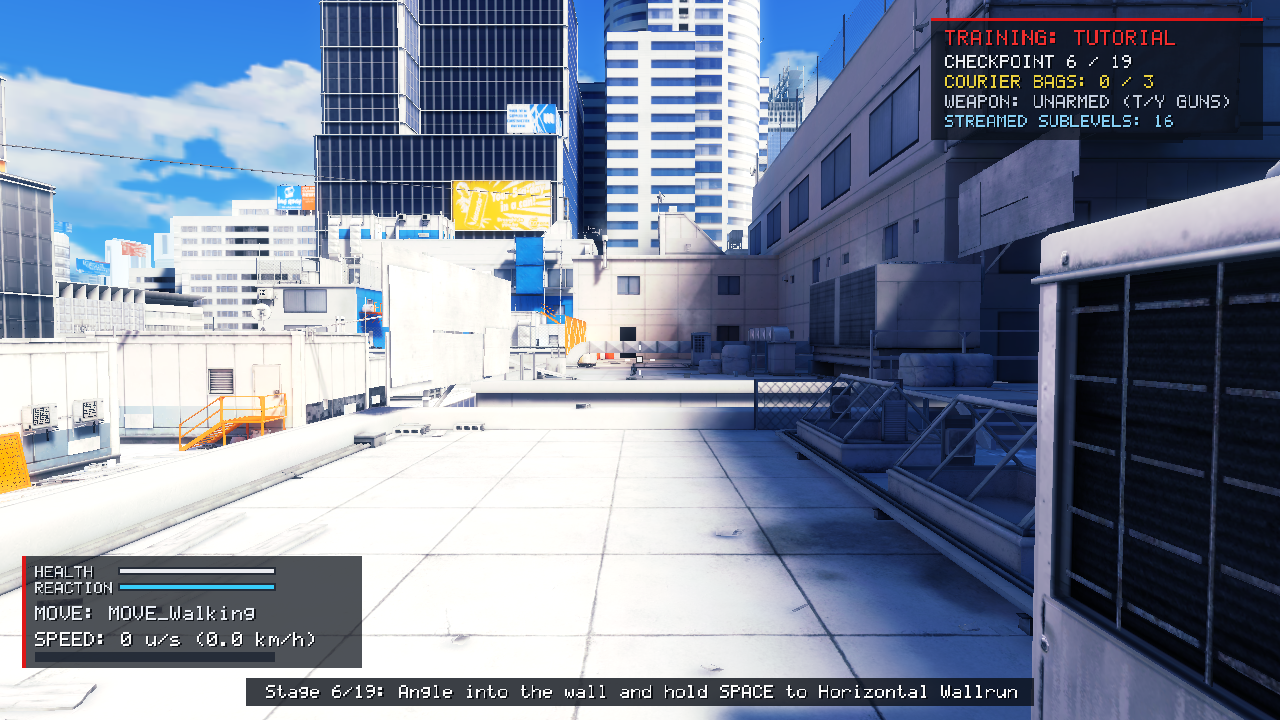
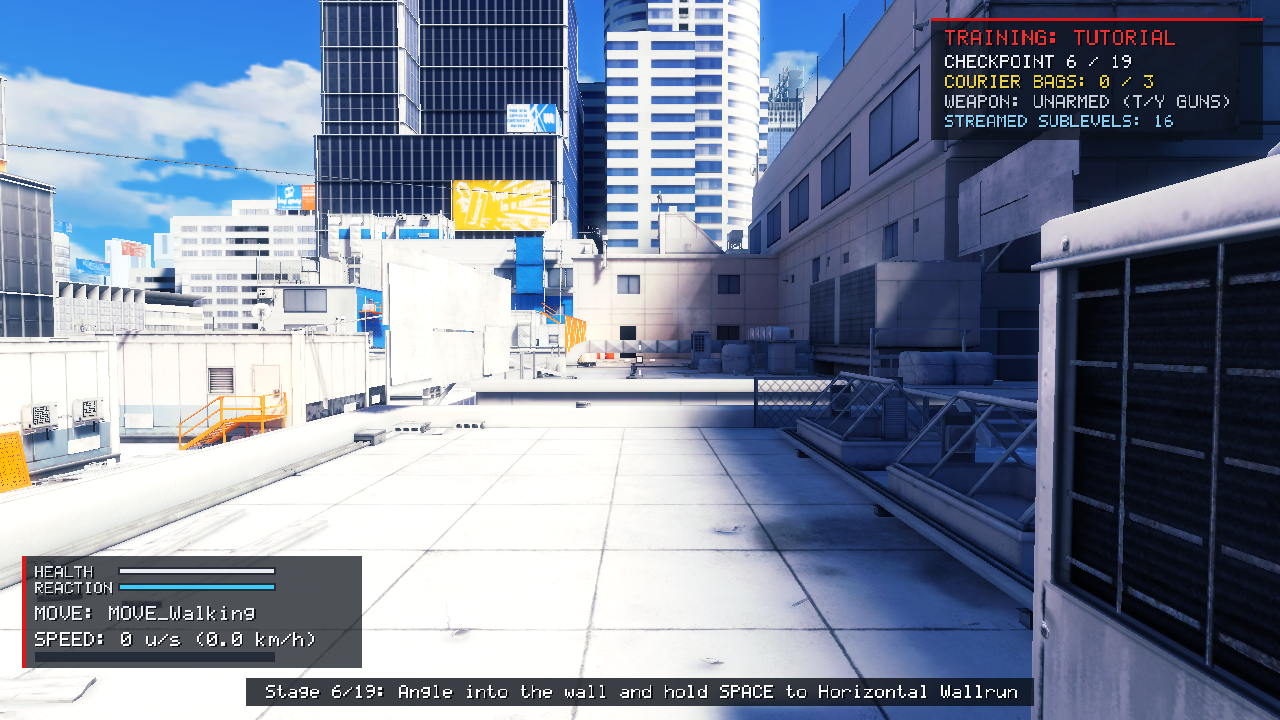
Controller: the capsule hovers over the floor, as retail's does
The last change drew the eye and the first-person mesh 3.15 uu higher on a
floor and left the physics where it was: the feet stood on the floor, 3.15 uu
under retail's capsule bottom, with jump reach and every height measured from
them. Now the hover is the controller's.

- check_ground() gives the place the feet rest at, kPawnFloorHover (3.15 uu)
  over where the capsule meets the floor. Standing, landing and stepping all
  go through it; hangs, bars, cables and pipes keep their own places. The
  drawn hover is gone.
- A leaf she has just barged open does not block her while it swings: with
  the hover she reaches it sooner, and the box test against its slow hinge
  side stopped her dead in the doorway.
- tools/retail: a recording's capsule centre is 90 over the port's feet (was
  93), and an anchor is no longer lifted to settle.
- The oracle expects her at her hover on a roof, after a landing, on a lift's
  floor and at the top of a pull-up.

Checked on Windows: --verify-all passes (screenshots regenerated); the
hand-over still matches retail's traces and her feet rest at retail's capsule
bottom to the hundredth; a retail recording replays as before (11 of 27
windows) with feet and capsule bottom at the same height. macOS: compiled on
macos-15; not run.

diff --git a/src/physics/parkour_controller.cpp b/src/physics/parkour_controller.cpp
@@ -1,6 +1,7 @@
 #include "parkour_controller.hpp"
 #include "../game/impact_effects.hpp"
 #include <cmath>
+#include <cstdlib>
 #include <algorithm>
 #include <iostream>
 #include <iterator>
@@ -41,14 +42,10 @@ constexpr float kEyeHeightSlide = 70.0f;
 // UE3 APawn walking constants.
 constexpr float kMaxStepHeight = 35.0f;   // Pawn.MaxStepHeight
 constexpr float kMaxFloorDist = 2.4f;     // MAXFLOORDIST
-// Retail's capsule does not stand on the floor. Let go at the end of each level intro, its centre
-// comes to rest 93.15 above the floor this controller stands on (New Eden, The Shard, The Boat), or
-// stays where it is when it is between 92.9 and 93.4 (Heat): physWalking's band of 1.9 to 2.4 over
-// the floor (MINFLOORDIST, MAXFLOORDIST), moved to its middle, and one unit more. These feet are on
-// the floor, so retail's eye and first-person mesh are that much higher than this pawn's place
-// gives them: the hover is added to what is drawn, not to the physics.
-constexpr float kFloorHover = 3.15f;
-constexpr float kHoverRate = 79.0f;       // uu/s: how fast what is drawn takes a change of it
+// The capsule's hover over a floor (kPawnFloorHover, parkour_controller.hpp): check_ground() gives
+// the place the feet rest at, not the place the capsule would touch.
+constexpr float kFloorHover = kPawnFloorHover;
+constexpr float kLiftRate = 79.0f;        // uu/s: how fast a hand-over's lift is let down
 // When the pawn's own animation comes back after a cutscene, retail's eye starts 6.5 uu over its
 // standing place and comes down in five frames at 79 uu/s, with the view's pitch (measured the same
 // in nine level intros): the tree blending in from its reference pose.
@@ -588,10 +585,8 @@ void ParkourController::reset(const Vec3& spawn_pos, float spawn_yaw) {
     m_telemetry.snatch_from_back = false;
     m_cam_mesh_offset = Vec3(0.0f, 0.0f, 0.0f);
     m_telemetry.camera_mesh_offset = m_cam_mesh_offset;
-    // She stands: the capsule hovers. And the body faces where she does from the first frame.
-    m_hover_z = kFloorHover;
+    // The body faces where she does from the first frame.
     m_handover_lift = 0.0f;
-    m_telemetry.camera_mesh_offset.z = m_hover_z;
     m_telemetry.mesh_smooth_z = 0.0f;
     m_telemetry.body_yaw_deg = spawn_yaw;
     m_mesh_smooth_z = 0.0f;
@@ -778,16 +773,13 @@ void ParkourController::anchor(const Vec3& feet, const Vec3& velocity, float yaw
     if (!grounded) {
         leave_ground(state.jump ? EMovement::MOVE_Jump : EMovement::MOVE_Falling);
         if (state.jump == 1) m_telemetry.move_state = EMovement::MOVE_Falling;
-        // In the air the anchor is the capsule's own place: nothing to add until a floor carries her.
-        m_hover_z = 0.0f;
-        m_telemetry.camera_mesh_offset.z = 0.0f;
     }
     if (state.jump) m_pre_jump_momentum = state.pre_jump_momentum;
 }
 
 void ParkourController::hand_over(const Vec3& root_end, float yaw, const LevelScene& scene) {
     reset(root_end + Vec3(0.0f, 0.0f, 2.0f), yaw);
-    // Onto the floor under her now, not by a fall in the first frames of play.
+    // Onto her hover over the floor under her now, not by a fall in the first frames of play.
     FloorHit floor;
     if (check_ground(scene, 2.0f + kMaxStepHeight, kPawnHeight, floor)) {
         m_telemetry.position.z = floor.z;
@@ -795,7 +787,7 @@ void ParkourController::hand_over(const Vec3& root_end, float yaw, const LevelSc
     }
     m_smooth_last_z = m_telemetry.position.z;
     m_handover_lift = kHandoverLift;
-    m_telemetry.camera_mesh_offset.z = m_hover_z + m_handover_lift;
+    m_telemetry.camera_mesh_offset.z = m_handover_lift;
 }
 
 void ParkourController::equip_weapon(const std::string& weapon_name) {
@@ -1240,21 +1232,10 @@ void ParkourController::step(const InputFrame& input, float dt, LevelScene& scen
         m_smooth_was_walking = walking;
         m_smooth_was_heave = m_telemetry.move_state == EMovement::MOVE_GrabPullUp;
         m_smooth_last_z = m_telemetry.position.z;
-        // The capsule's hover (kFloorHover): there while a floor carries her and in the air after it,
-        // where this pawn is as far under retail's as it was on the floor; not while she hangs from
-        // something, where her place comes from the ledge, the bar, the cable or the pipe.
-        {
-            const EMovement ms = m_telemetry.move_state;
-            const bool hangs = ms == EMovement::MOVE_Grabbing || ms == EMovement::MOVE_IntoGrab || ms == EMovement::MOVE_GrabTransfer ||
-                               ms == EMovement::MOVE_GrabPullUp || ms == EMovement::MOVE_ZipLine || ms == EMovement::MOVE_Swing ||
-                               ms == EMovement::MOVE_Climb;
-            const float target = hangs ? 0.0f : (m_telemetry.grounded ? kFloorHover : m_hover_z);
-            const float step = kHoverRate * effective_dt;
-            m_hover_z = std::abs(target - m_hover_z) <= step ? target : m_hover_z + (target > m_hover_z ? step : -step);
-            m_handover_lift = std::max(0.0f, m_handover_lift - step);
-        }
+        // A hand-over's lift (kHandoverLift) is let down.
+        m_handover_lift = std::max(0.0f, m_handover_lift - kLiftRate * effective_dt);
         m_telemetry.mesh_smooth_z = m_mesh_smooth_z;
-        m_telemetry.camera_mesh_offset.z = m_mesh_smooth_z + m_hover_z + m_handover_lift;
+        m_telemetry.camera_mesh_offset.z = m_mesh_smooth_z + m_handover_lift;
     }
     // Retail's frames have the pistol in her hand between 0.08 and 0.16 s after the move ends, not
     // on its last frame.
@@ -1942,6 +1923,10 @@ ParkourController::TraceHit ParkourController::sweep_capsule(const Capsule& caps
         for (const auto& part : door.parts) {
             if (!part.collision) continue;
             if (door.state != DoorState::Closed && part.is_blocker_only) continue;
+            // A leaf she has just barged open swings away ahead of her (the open matinee): it does
+            // not stop her in the doorway. A box test against it, a few degrees into its swing,
+            // would: its slow hinge side is still across her way.
+            if (door.state == DoorState::Opening && door.barged && !part.is_blocker_only) continue;
             if (!is_rotated) {
                 consider(part.collision->sweep_box(centre, delta, extent, COLL_BlockNonZeroExtent), Vec3(0.0f, 0.0f, 0.0f));
             } else {
@@ -2018,15 +2003,17 @@ ParkourController::TraceHit ParkourController::trace_ray(const Vec3& start, cons
     return best;
 }
 
+// The floor under her within `probe_depth` of where she would rest on it, and that resting place:
+// kFloorHover over where the capsule meets the floor.
 bool ParkourController::check_ground(const LevelScene& scene, float probe_depth, float height, FloorHit& out) const {
     Capsule cap;
     cap.base = m_telemetry.position + Vec3(0.0f, 0.0f, kFloorProbeLift);
     cap.radius = kPawnRadius;
     cap.height = height;
-    const Vec3 delta(0.0f, 0.0f, -(kFloorProbeLift + probe_depth));
+    const Vec3 delta(0.0f, 0.0f, -(kFloorProbeLift + probe_depth + kFloorHover));
     const TraceHit hit = sweep_capsule(cap, delta, scene);
     if (!hit.hit || hit.normal.z < kWalkableFloorZ) return false;
-    out.z = cap.base.z + delta.z * hit.fraction;
+    out.z = cap.base.z + delta.z * hit.fraction + kFloorHover;
     out.normal = hit.normal;
     out.actor_index = hit.actor_index;
     return true;

diff --git a/src/main.cpp b/src/main.cpp
@@ -768,7 +768,7 @@ static int run_oracle_verification(const std::string& game_root, const std::stri
     const float s1_fov = controller.get_telemetry().fov_deg;
     const float s1_z = controller.get_position().z;
     bool s1_pass = (s1_speed >= 400.0f) && (s1_fov > 90.0f) && controller.is_grounded() &&
-                   std::abs(s1_z - sp00_scene.player_spawn_pos.z) < 1.0f;
+                   std::abs(s1_z - (sp00_scene.player_spawn_pos.z + kPawnFloorHover)) < 1.0f;  // on the roof, at her hover over it
     std::cout << "  -> Stage 1 Result: " << (s1_pass ? "PASS" : "FAIL")
               << " (Speed=" << s1_speed << " u/s, FOV=" << s1_fov << "°, Roof Z=" << s1_z << ")" << std::endl;
 
@@ -856,7 +856,7 @@ static int run_oracle_verification(const std::string& game_root, const std::stri
     controller.step(in_run_jump, kDt, sim_scene);
     step_until(in_run, 180, sim_scene, [&] { return controller.is_grounded(); });
     const Vec3 s3_land = controller.get_position();
-    bool s3_cleared_gap = controller.is_grounded() && s3_land.x < -1150.0f && std::abs(s3_land.z - 4224.0f) < 2.0f;
+    bool s3_cleared_gap = controller.is_grounded() && s3_land.x < -1150.0f && std::abs(s3_land.z - (4224.0f + kPawnFloorHover)) < 2.0f;
     bool s3_pass = s3_wallrun && (s3_max_roll >= 10.0f) && s3_cleared_gap;
     std::cout << "  -> Stage 3 Result: " << (s3_pass ? "PASS" : "FAIL")
               << " (State=" << move_state_name(s3_state)
@@ -1156,7 +1156,7 @@ static int run_oracle_verification(const std::string& game_root, const std::stri
                 }
             }
             cab_top_z = controller.get_position().z;
-            s8_elev_top = (std::abs(cab_top_z - lift_top_z) < 2.0f) &&
+            s8_elev_top = (std::abs(cab_top_z - (lift_top_z + kPawnFloorHover)) < 2.0f) &&
                           (esc_scene.elevators[lift].state == ElevatorState::IdleEnd) &&
                           esc_scene.elevators[lift].streaming_triggered;
 
@@ -1167,7 +1167,7 @@ static int run_oracle_verification(const std::string& game_root, const std::stri
             }
             walkout_pos = controller.get_position();
             s8_walkout = controller.is_grounded() && walkout_pos.x < lift_floor.x - lift_half.x - 30.0f &&
-                         std::abs(walkout_pos.z - lift_top_z) < 2.0f;
+                         std::abs(walkout_pos.z - (lift_top_z + kPawnFloorHover)) < 2.0f;
         }
         s8_pass = s8_elev_top && s8_walkout && real_elev_ok;
         std::cout << "  -> Stage 8 Result: " << (s8_pass ? "PASS" : "FAIL")
@@ -2262,10 +2262,11 @@ static int run_oracle_verification(const std::string& game_root, const std::stri
         const bool s20_heave = pulled && heave_anim == "HangHeaveUp" && heave_samples.size() >= 80;
         // The camera follows retail's to 5 uu, the pawn the root motion to 1.5 uu.
         const bool s20_track = s20_heave && eye_report.str().size() > 0 && std::abs(worst_cap) <= 1.5f && std::abs(worst_eye) <= 5.0f;
-        // The move lasts the animation (OnCustomAnimEnd) and ends on the roof, walking, with no jump of
+        // The move lasts the animation (OnCustomAnimEnd) and ends on the roof (the lip is 182.8 over the
+        // hanging feet, and she hovers over it), walking, with no jump of
         // the camera on the way (the old end shoved her 76 uu forward in one frame).
         const bool s20_end = walked && last_heave_t > kHangHeaveUpLength - kDt - 1e-3f && last_heave_t < kHangHeaveUpLength &&
-                             std::abs(end_rise - 182.8f) <= 1.5f && max_cam_step < 12.0f;
+                             std::abs(end_rise - (182.8f + kPawnFloorHover)) <= 1.5f && max_cam_step < 12.0f;
         s20_pass = esc_ok && grabbed && s20_heave && s20_track && s20_end;
         std::cout << "  -> Stage 20 Result: " << (s20_pass ? "PASS" : "FAIL")
                   << " (Escape_p=" << (esc_ok ? "OK" : "NO") << ", Grab=" << (grabbed ? "OK" : "NO")

diff --git a/src/physics/parkour_controller.hpp b/src/physics/parkour_controller.hpp
@@ -24,6 +24,15 @@ struct LinearCurve {
 // GetWalkAcceleration / CalcVelocity) describe it, with swept collision against the real UE3 level
 // collision (LevelScene::collision + the moving elevator parts), weapons, combat disarm, and AI.
 // =============================================================================
+// Retail's capsule does not stand on the floor. Let go at the end of each level intro, its centre
+// comes to rest 93.15 above the floor its sweep meets (New Eden, The Shard, The Boat), or stays
+// where it is when it is between 92.9 and 93.4 (Heat): physWalking's band of 1.9 to 2.4 over the
+// floor (MINFLOORDIST, MAXFLOORDIST), moved to its middle, and one unit more. With CollisionHeight
+// 90 that puts the capsule's bottom, the controller's feet, 3.15 over the floor that carries
+// her. (The band is not kept: she is always put at its middle.) A recording's capsule centre is
+// 90 over these feet on a floor and off it (tools/retail/trace.py).
+inline constexpr float kPawnFloorHover = 3.15f;
+
 class ParkourController {
 public:
     explicit ParkourController(const MovementConfig& config = MovementConfig());
@@ -32,7 +41,7 @@ public:
     // Reset player position and orientation
     void reset(const Vec3& spawn_pos, float spawn_yaw = 0.0f);
     // A cutscene ends and the player is let go where its animation left the mesh's root (the
-    // stand-in's place, on the floor or near it): she stands on the floor under it, facing `yaw`,
+    // stand-in's place, on the floor or near it): she hovers over the floor under it, facing `yaw`,
     // and the view is let down onto her own standing pose as retail's is (parkour_controller.cpp,
     // kHandoverLift).
     void hand_over(const Vec3& root_end, float yaw, const LevelScene& scene);
@@ -486,7 +495,6 @@ private:
     float m_balance_time = 0.0f;            // since she stepped on to the beam
     float m_balance_sway = 0.0f;            // the lean's own wander, as shown
     float m_mesh_smooth_z = 0.0f;           // TdPawn.SmoothOffset: the mesh held back over a fast change of floor height
-    float m_hover_z = 0.0f;                 // how far over these feet retail's capsule bottom is (kFloorHover on a floor)
     float m_handover_lift = 0.0f;           // what is left of a hand-over's lift (kHandoverLift)
     float m_smooth_last_z = 0.0f;
     bool m_smooth_was_walking = false;

diff --git a/tools/retail/trace.py b/tools/retail/trace.py
@@ -24,16 +24,17 @@ import math
 
 TICK_MS = 16
 # Retail's pawn Location is the capsule centre. CollisionHeight is 90 (a
-# half-height, units.py) and the pawn floats a few uu above the floor: at the
-# escape_p spawn the centre reads 12069.15 over a roof whose top converts to
-# 11976, so 93. The anchor is lifted a little on top and settled onto OUR
-# floor, so a unit either way costs nothing.
-CENTRE_ABOVE_FEET = 93.0
+# half-height, units.py), so the capsule's bottom is 90 under it. The pawn
+# hovers over the floor (at the escape_p spawn the centre reads 12069.15 over
+# a roof whose top converts to 11976: 93.15), and so does the port's since
+# its controller keeps the feet kPawnFloorHover (3.15) over the floor: its
+# feet are the capsule's bottom, on a floor and off it.
+CENTRE_ABOVE_FEET = 90.0
 # ...except on the SHORT capsule: a move with bUseCustomCollision runs on a
 # 122 uu capsule with the feet fixed (TdMove.ShrinkCollision), so its centre
 # stands 29 uu lower - every recorded slide steps pz down exactly 29.00. Read
-# with 93, a slide's feet came out 29 uu under the floor, and a re-anchor
-# dropped inside one started the port in the ground.
+# with the full capsule's height, a slide's feet came out 29 uu under the
+# floor, and a re-anchor dropped inside one started the port in the ground.
 SHORT_CAPSULE_MOVES = frozenset(("MOVE_Slide", "MOVE_Crouch", "MOVE_180TurnInAir",
                                  "MOVE_LayOnGround", "MOVE_Coil", "MOVE_AirBarge",
                                  "MOVE_MeleeCrouch", "MOVE_MeleeSlide"))
@@ -47,7 +48,7 @@ def centre_above_feet(sample):
     return CENTRE_ABOVE_FEET
 
 
-ANCHOR_LIFT_UU = 3.0
+ANCHOR_LIFT_UU = 0.0        # the anchor is the capsule's bottom as it is: nothing to settle
 DIVERGE_UU = 50.0           # the gap that counts as "parted"
 FELL_UU = 300.0             # port below retail by this much = fell through
 

diff --git a/src/math/types.hpp b/src/math/types.hpp
@@ -1398,9 +1398,8 @@ struct PlayerTelemetry {
     bool move_left = false;         // a dodge jump going left
     bool hanging_free = false;      // hanging with no wall for the legs
     // The first-person mesh, and the eye in it, away from where the pawn's place puts them: kept off
-    // a wall (TdPawn.OffsetMeshXY), and in z held back over a step (TdPawn.SmoothOffset), carried at
-    // the height retail's capsule hovers over a floor, and let down as the pawn's own animation
-    // comes back after a cutscene (physics/parkour_controller.cpp).
+    // a wall (TdPawn.OffsetMeshXY), and in z held back over a step (TdPawn.SmoothOffset) and let
+    // down as the pawn's own animation comes back after a cutscene (physics/parkour_controller.cpp).
     Vec3 camera_mesh_offset{0.0f, 0.0f, 0.0f};
     float mesh_smooth_z = 0.0f;     // TdPawn.SmoothOffset alone: what the feet's placement reads
     bool ledge_sloped = false;      // TdMove_Grab.bSlopedLedge: the ledge's top is not level

diff --git a/tools/retail/replay.py b/tools/retail/replay.py
@@ -28,8 +28,9 @@ tools/retail/trace.py is):
 
 There is no coordinate conversion: this engine works in UE units in the
 level's own space, as retail does. Retail's pawn Location is the capsule
-centre and this engine's position is the feet, so the anchor is
-pz - trace.centre_above_feet(sample), lifted ANCHOR_LIFT_UU to settle.
+centre and this engine's position is the feet (the capsule's bottom, which
+hovers over a floor as retail's does), so the anchor is
+pz - trace.centre_above_feet(sample).
 """
 import argparse
 import bisect
@@ -48,7 +49,7 @@ from tools.retail.trace import (FRAME_EPS, KEYS, PULSES, UE_PHYS_WALKING,  # noq
                                 centre_above_feet, held_from_start)
 
 ROOT = paths.repo_root()
-ANCHOR_LIFT_UU = 3.0
+ANCHOR_LIFT_UU = 0.0
 DIVERGE_UU = 50.0           # the gap that counts as "parted"
 FELL_UU = 300.0             # port below retail by this much = fell through
 

diff --git a/MODLOG.md b/MODLOG.md
@@ -1652,3 +1652,49 @@ The hover is drawn, not simulated: the controller's feet are still on the floor,
 capsule bottom, so jump reach and the heights measured from the feet are that much under retail's. The
 blend from the reference pose is imitated by the lift, not by the tree; the view's pitch does not glide
 from 0 to 0.11 degrees with it. In `TODO.md`.
+
+---
+
+## 35. The capsule's hover is the controller's (agent/capsule-hover, 2026-10-10)
+
+Section 34 drew the eye and the first-person mesh 3.15 uu higher on a floor and left the physics where it
+was: the controller's feet stood on the floor, 3.15 uu under retail's capsule bottom, and with them jump
+reach and every height measured from the feet. Now the controller hovers as `physWalking` does.
+
+### 35.1 Changes
+- `ParkourController::check_ground` gives the place the feet rest at: `kPawnFloorHover` (3.15 uu,
+  `parkour_controller.hpp`) over where the capsule meets the floor, probing that much further. Everything
+  that stands, lands or steps goes through it (the walk's floor check, the hand-over, the bottom of a climb),
+  so a floor now carries the feet 3.15 uu over it; hangs, bars, cables and pipes keep the place their
+  geometry gives them. The drawn hover of section 34 is gone (`camera_mesh_offset.z` is `SmoothOffset` and a
+  hand-over's lift again).
+- A leaf she has just barged open does not block her while it swings open (`sweep_capsule`,
+  `DoorState::Opening` with `barged`): hovering, she no longer scrapes up the doorway's 8 uu sill, reaches
+  the leaf three units sooner, and the box test against the leaf's slow hinge side stopped her dead in the
+  doorway (298 uu/s to 4). It had cost her most of her speed before, a few frames later.
+- `tools/retail`: a recording's capsule centre is 90 over the port's feet (`CENTRE_ABOVE_FEET`, was 93), and
+  an anchor is not lifted to settle (`ANCHOR_LIFT_UU` 0, was 3).
+- The oracle expects her at her hover: stages 1, 3 and 8 (a roof, a landing, a lift's floor) and stage 20's
+  rise onto the roof (182.8 + 3.15).
+
+### 35.2 Results
+- **`--verify-all`** on Windows (Direct3D 11): ALL SYSTEMS PASS, 20 stages. Against the same build without
+  the hover, 17 stages gave the same verdict before any expectation was touched; the figures that moved are
+  the floor heights (+3.15), the vault's landing (5.6 uu further), the zip line's ride (5.8 uu longer) and
+  the door stage (through the doorway faster: the barge ends 144 uu further on after the same time, the
+  slide kick 62).
+- **The hand-over** (oracle stage 22, and the windowed game's trace in New Eden): as section 34, and her feet
+  rest at 2467.15, which is retail's capsule centre (2557.15) less 90.
+- **Against a retail recording** (`tools.retail.replay`, `20260920_185901_escape_overlay_session`, 27
+  four-second windows): 11 reproduce with the hover and 11 without, the gaps within 4 uu of each other; in
+  the walking windows the port's feet and retail's capsule bottom are the same height to the unit (11983 on
+  the roof at 11980). A second recording (`20260929_214813`): 29 of 45.
+- **macOS:** the app compiles and links on `macos-15` and both Metal shader sources compile. Not run.
+- **The tracked screenshots** are regenerated: the posed views of stages 9 and 10, which place the telemetry by hand,
+  are back where they were before section 34's drawn hover; the played ones move by a few pixels.
+
+### 35.3 Not done
+Retail leaves the capsule alone between 2.9 and 3.4 uu over the floor; the port always puts it at 3.15.
+Her speed up ramps and stairs changed with this (she is lifted at full horizontal speed where she used to
+slide along the slope and lose some): retail's was not measured. Whether retail's leaf blocks her as it
+opens was not measured. In `TODO.md`.

diff --git a/TODO.md b/TODO.md
@@ -46,7 +46,7 @@ This file tracks open bugs, missing mechanics, and known retail parity gaps acro
 - **Skill roll lower-body viewmodel offset (`is_lower`):** During `fallinglandroll`, Faith's legs still inherit the fixed standing lower-body offset in `evaluate_faith_1p` (54 uu back, 16° tilt), displacing them from the roll's authored pose (`src/anim/anim_system.cpp`).
 - **Walk viewmodel skin clipping at 200–260 uu/s:** Large skin-colored polygons from the upper-body viewmodel clip into the screen edges at slow walk/jog speeds (`200–260 uu/s`, including right after exiting a skill roll).
 - **Post-roll / diagonal walk acceleration gap (`seg08`):** Walking back-right after a skill roll caps around `350–390 uu/s` in the port whereas retail accelerates to `~610 uu/s` (`MODLOG.md` §13.4).
-- **The capsule's hover is drawn, not simulated:** retail's capsule rests 3.15 uu above the floor (`physWalking`: its centre 93.15 over the floor at every level intro's hand-over, `docs/LEVEL_INTROS.md` §5), and the port's feet stand on it. The eye and the first-person mesh now ride at retail's height (`kFloorHover`, added to `camera_mesh_offset.z` on a floor and in the air after it, taken off while hanging), but the physics is 3.15 uu under retail's: jump reach and the step and ledge heights measured from the feet. Moving the hover into the controller would change every floor-referenced height the oracle stages were tuned with.
+- **The capsule's hover, remaining differences:** the controller keeps its feet 3.15 uu over a floor (`kPawnFloorHover`), always at the middle of retail's band (retail leaves the capsule alone between 2.9 and 3.4 uu). With it she no longer scrapes up a shallow ramp or a sill (the floor check lifts her at full horizontal speed, where the capsule used to slide along the slope and lose it): retail's speed on ramps and stairs has not been measured against this. A leaf she has just barged open does not block her while it swings (`MODLOG.md` §35): whether retail's leaf does was not measured either.
 - **Post-handover turn-in-place (`StandTurn90Left` / `StandTurn90Right`):** Replicate retail's 90° turn-in-place animation and cloth/sneak step notifies when control returns in Flight, Jacknife, Ropeburn, Pirandello Kruger, and The Boat (`docs/LEVEL_INTROS.md` §5).
 - **First-person skeletal controls not yet compared with retail on screen:** Both arms going with the view while she runs unarmed, the weapon's and hand's lazy springs, the hands on a sloped ledge and on a vault, the left hand on a rifle are from the executable's rules only; at retail's flat wall the port's hands sit about 1.5 uu nearer the middle of the picture. Not run: the forearm roll controls with their morph targets, and `CameraNoiseControlRoll` / `Pitch` (`docs/FIRST_PERSON_ANIMATION_RE.md` §10-11).
 - **Zipline entry glide & impact animations:** Port `TdMove_IntoZipLine`'s ~0.3 s entry glide, `ziplinestart` / `ziplinehitwall` animations, and end-of-cable impact camera motion (`MODLOG.md` §10.4).

diff --git a/docs/LEVEL_INTROS.md b/docs/LEVEL_INTROS.md
@@ -192,16 +192,16 @@ came from a cadence timer and no voice line played.
     Boat, 6.17 in Heat) and rests a little under where the intro left it (-0.70, -2.63, -0.36).
   - Standing, the eye is 64.2 to 65.4 uu over the capsule's centre and 8.1 to 9.2 ahead of it, breathing.
 
-  The port does the same (`ParkourController::hand_over`): she is put on the floor under the stand-in's root,
-  the view starts 6.5 uu up and is let down at 79 uu/s, and what is drawn rides at the height retail's capsule
-  hovers (`kFloorHover`, 3.15 uu: the port's feet are on the floor, so its eye and first-person mesh were
-  that much under retail's wherever a floor carries her). Measured (`--handover-check <map>`, oracle stage
-  22), first frame / rest against the intro's last eye, port and retail: New Eden +5.65 / -0.75 and +5.85 /
-  -0.70; The Boat +3.65 / -2.75 and +3.79 / -2.63; The Shard +3.40 / -2.99 and +3.61 / -2.87; Heat +6.20 /
-  -0.23 and +6.17 / -0.36. Before, the camera stood at feet + 166 on the pawn's axis and popped 12 uu; with
-  the first-person tree's eye it ended 3 to 5 uu under retail's, fell 2 uu in the first two frames, and for
-  one frame was thrown sideways by a body yaw that lagged the reset (16 uu on The Boat, which ends facing
-  178 degrees). The hover is drawn, not simulated: see `TODO.md`.
+  The port does the same (`ParkourController::hand_over`): she is put at her hover over the floor under the
+  stand-in's root, and the view starts 6.5 uu up and is let down at 79 uu/s. The hover is the controller's:
+  a floor carries its feet 3.15 uu over it (`kPawnFloorHover`, in `check_ground`), as `physWalking` carries
+  retail's capsule, so the feet are the capsule's bottom on a floor and off it (`MODLOG.md` section 35).
+  Measured (`--handover-check <map>`, oracle stage 22), first frame / rest against the intro's last eye, port
+  and retail: New Eden +5.65 / -0.75 and +5.85 / -0.70; The Boat +3.65 / -2.75 and +3.79 / -2.63; The Shard
+  +3.40 / -2.99 and +3.61 / -2.87; Heat +6.20 / -0.23 and +6.17 / -0.36. Before, the camera stood at feet +
+  166 on the pawn's axis and popped 12 uu; with the first-person tree's eye it ended 3 to 5 uu under
+  retail's, fell 2 uu in the first two frames, and for one frame was thrown sideways by a body yaw that
+  lagged the reset (16 uu on The Boat, which ends facing 178 degrees).
 - **The turn after the hand-over.** In five chapters (Flight, Jacknife, Ropeburn, Pirandello Kruger, The Boat)
   retail's pawn plays `StandTurn90Left` or `Right` as control returns, heard as one `Cloth.Walk` at the
   Matinee's end and two `FootStepSneak` in the half second after. The port has no turn in place. Which chapters

diff --git a/tools/retail/README.md b/tools/retail/README.md
@@ -91,7 +91,7 @@ On non-Apple platforms CMake builds only `me_replay`; the Metal app stays macOS-
 ## How a window is replayed
 
 * **One step per retail frame.** Frame *k* of a window anchored on sample *i0* is stepped with `dt = t[i0+k] - t[i0+k-1]`. It gets the keys that frame took and the view it turned to (sample *i0+k*'s), so port frame *k* and retail sample *i0+k* are the same moment. The view arrives as a mouse delta, because the controller's turn damping reads one.
-* **The anchor** is the retail frame's feet (`pz - 93`, or `- 64` on the 122 uu short capsule), lifted 3 uu to settle. With it go the velocity, the view, and `ParkourController::anchor`'s state. Windows prefer to anchor where retail is walking, because a wall run or a grab has state an anchor cannot hand over.
+* **The anchor** is the retail frame's capsule bottom (`pz - 90`, or `- 61` on the 122 uu short capsule): the port's feet hover over a floor as retail's capsule does (`kPawnFloorHover`), so nothing is lifted or settled. With it go the velocity, the view, and `ParkourController::anchor`'s state. Windows prefer to anchor where retail is walking, because a wall run or a grab has state an anchor cannot hand over.
 * **No coordinate conversion.** This engine works in UE units in the level's own space, as retail does.
 * Key bits: W S A D, jump, crouch (left shift), Q and the left button (the barge). A jump pressed and released inside one frame still counts as a press there; Q and the left button are presses, never holds.
 
